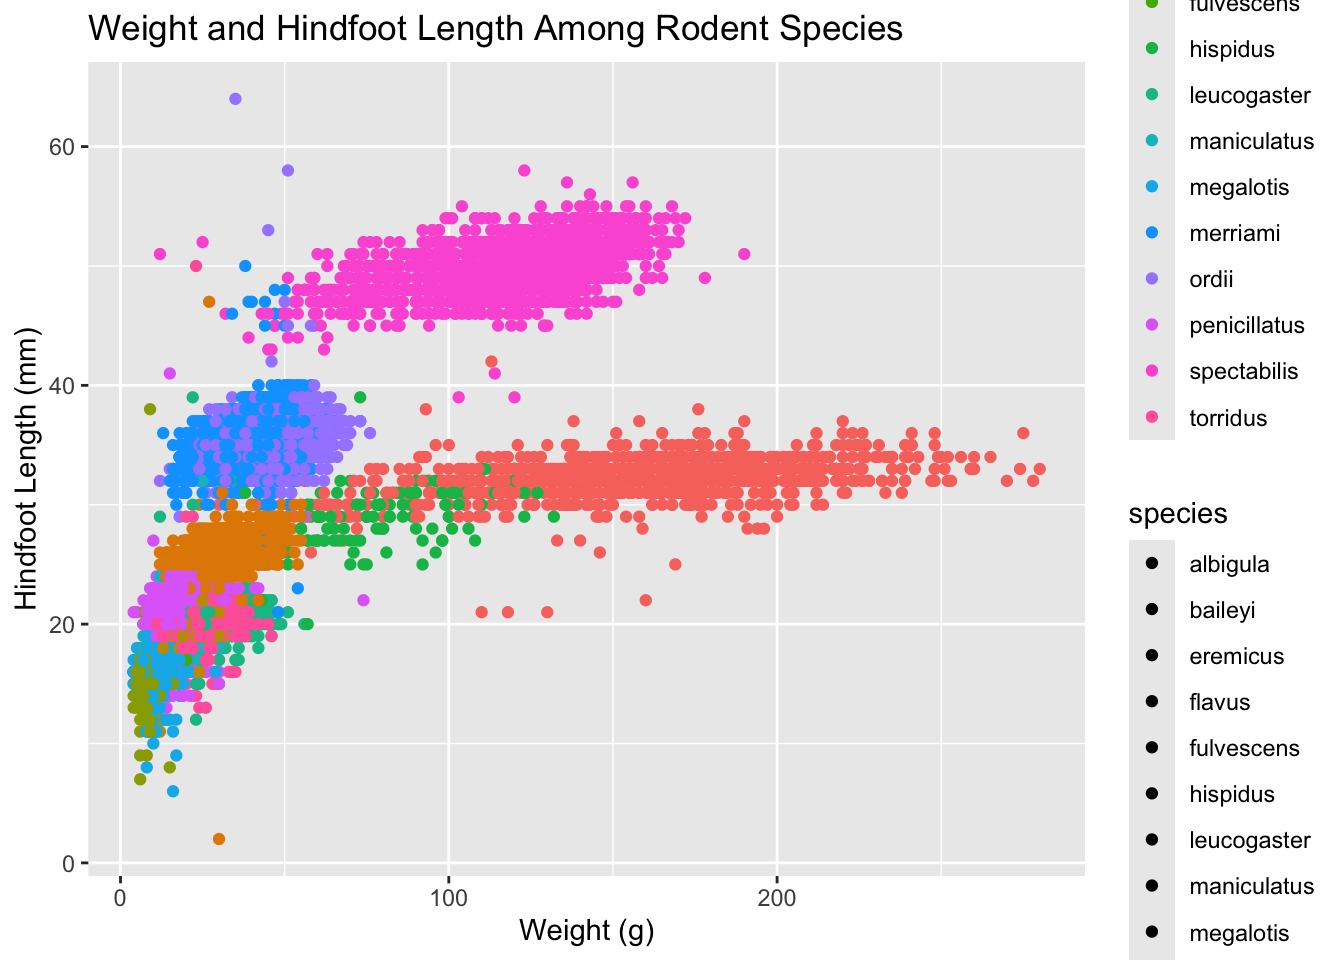
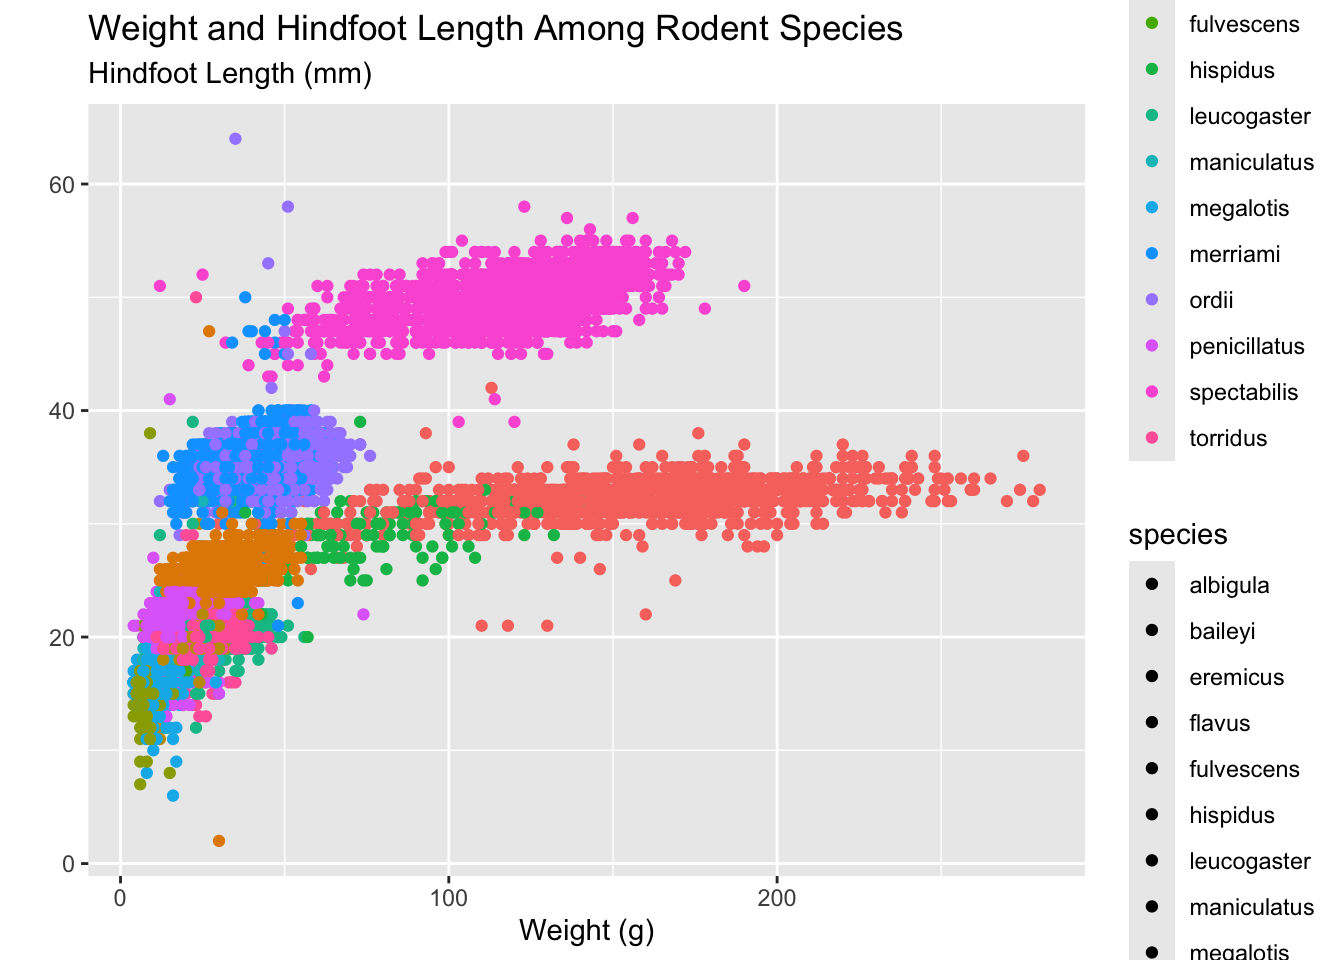
boxplot side-by-side for each species was created

diff --git a/QuinteroE_Lab3.html b/QuinteroE_Lab3.html
@@ -331,10 +331,10 @@ $ taxa            &lt;chr&gt; "Rodent", "Rodent", "Rodent", "Rodent", "Rodent", 
 <span id="cb8-8"><a href="#cb8-8" aria-hidden="true" tabindex="-1"></a>  </span>
 <span id="cb8-9"><a href="#cb8-9" aria-hidden="true" tabindex="-1"></a>  <span class="fu">labs</span>(</span>
 <span id="cb8-10"><a href="#cb8-10" aria-hidden="true" tabindex="-1"></a>    <span class="at">title =</span> <span class="st">"Weight and Hindfoot Length Among Rodent Species"</span>,</span>
-<span id="cb8-11"><a href="#cb8-11" aria-hidden="true" tabindex="-1"></a>    <span class="at">x =</span> <span class="st">"Weight (g)"</span>,</span>
-<span id="cb8-12"><a href="#cb8-12" aria-hidden="true" tabindex="-1"></a>    <span class="at">y =</span> <span class="st">"Hindfoot Length (mm)"</span>, </span>
-<span id="cb8-13"><a href="#cb8-13" aria-hidden="true" tabindex="-1"></a>    <span class="at">color =</span> <span class="st">"Species"</span>,</span>
-<span id="cb8-14"><a href="#cb8-14" aria-hidden="true" tabindex="-1"></a>    <span class="at">shape =</span> <span class="st">"Species"</span></span>
+<span id="cb8-11"><a href="#cb8-11" aria-hidden="true" tabindex="-1"></a>    <span class="at">subtitle =</span> <span class="st">"Hindfoot Length (mm)"</span>,</span>
+<span id="cb8-12"><a href="#cb8-12" aria-hidden="true" tabindex="-1"></a>    <span class="at">x =</span> <span class="st">"Weight (g)"</span>,</span>
+<span id="cb8-13"><a href="#cb8-13" aria-hidden="true" tabindex="-1"></a>    <span class="at">y =</span> <span class="st">""</span>, </span>
+<span id="cb8-14"><a href="#cb8-14" aria-hidden="true" tabindex="-1"></a>    <span class="at">color =</span> <span class="st">"Species"</span></span>
 <span id="cb8-15"><a href="#cb8-15" aria-hidden="true" tabindex="-1"></a>  )</span></code><button title="Copy to Clipboard" class="code-copy-button"><i class="bi"></i></button></pre></div>
 <div class="cell-output-display">
 <div>
@@ -358,6 +358,23 @@ $ taxa            &lt;chr&gt; "Rodent", "Rodent", "Rodent", "Rodent", "Rodent", 
 </section>
 <section id="boxplots" class="level2">
 <h2 class="anchored" data-anchor-id="boxplots">Boxplots</h2>
+<div class="cell">
+<div class="sourceCode cell-code" id="cb9"><pre class="sourceCode r code-with-copy"><code class="sourceCode r"><span id="cb9-1"><a href="#cb9-1" aria-hidden="true" tabindex="-1"></a><span class="fu">ggplot</span>(<span class="at">data =</span> surveys,</span>
+<span id="cb9-2"><a href="#cb9-2" aria-hidden="true" tabindex="-1"></a>       <span class="at">mapping =</span> <span class="fu">aes</span>(<span class="at">x =</span> weight, </span>
+<span id="cb9-3"><a href="#cb9-3" aria-hidden="true" tabindex="-1"></a>                     <span class="at">y =</span> hindfoot_length, </span>
+<span id="cb9-4"><a href="#cb9-4" aria-hidden="true" tabindex="-1"></a>                     <span class="at">color =</span> species, </span>
+<span id="cb9-5"><a href="#cb9-5" aria-hidden="true" tabindex="-1"></a>                     <span class="at">fill =</span> species)) <span class="sc">+</span></span>
+<span id="cb9-6"><a href="#cb9-6" aria-hidden="true" tabindex="-1"></a>  </span>
+<span id="cb9-7"><a href="#cb9-7" aria-hidden="true" tabindex="-1"></a>  <span class="fu">geom_boxplot</span>(<span class="at">alpha =</span> <span class="dv">10</span>) <span class="sc">+</span></span>
+<span id="cb9-8"><a href="#cb9-8" aria-hidden="true" tabindex="-1"></a>  <span class="fu">geom_point</span>()</span></code><button title="Copy to Clipboard" class="code-copy-button"><i class="bi"></i></button></pre></div>
+<div class="cell-output-display">
+<div>
+<figure class="figure">
+<p><img src="QuinteroE_Lab3_files/figure-html/boxplot-1.png" class="img-fluid figure-img" width="672"></p>
+</figure>
+</div>
+</div>
+</div>
 <p><strong>9. Create side-by-side boxplots to visualize the distribution of weight within each species.</strong></p>
 <p>A fundamental complaint of boxplots is that they do not plot the raw data. However, with <strong>ggplot</strong> we can add the raw points on top of the boxplots!</p>
 <p><strong>10. Add another layer to your previous plot that plots each observation using <code>geom_point()</code>.</strong></p>
